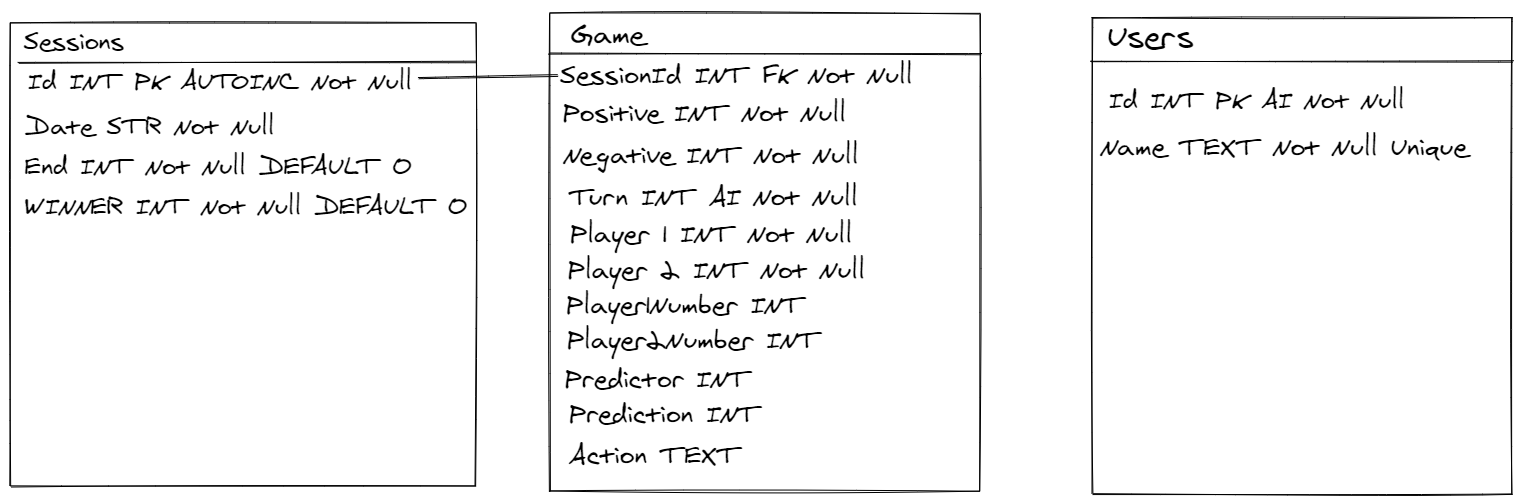
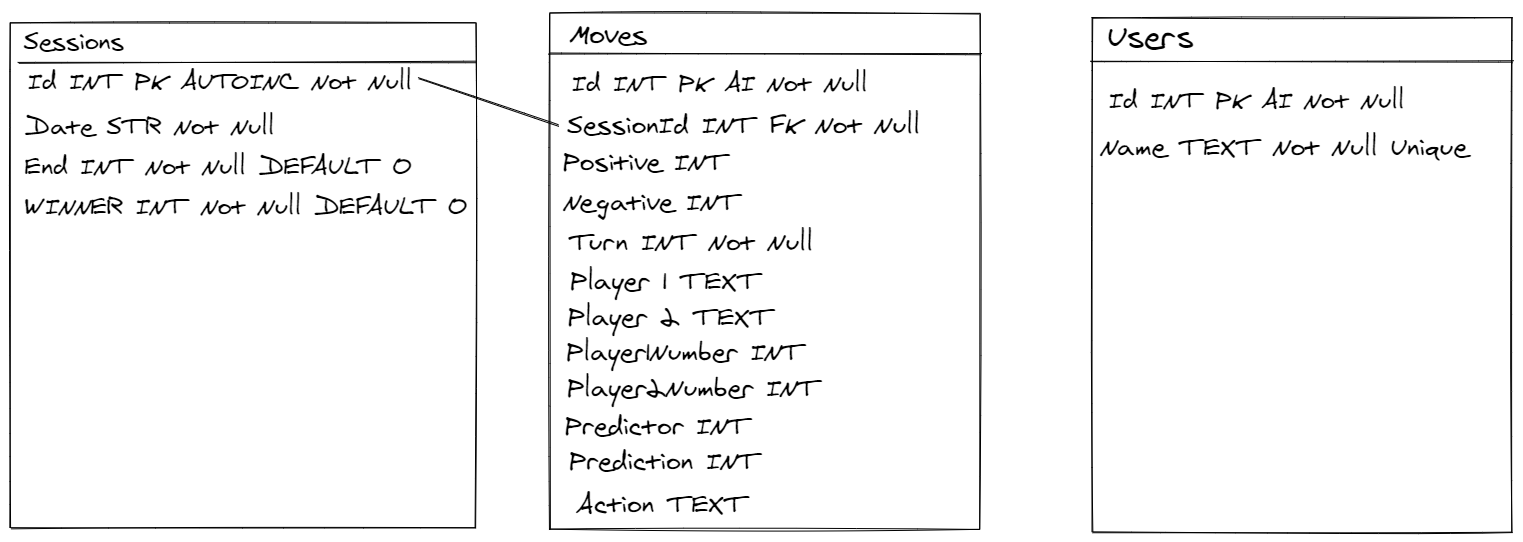
Scaffolded

diff --git a/app.go b/app.go
@@ -2,8 +2,12 @@ package main
 
 import (
 	"database/sql"
+	"log"
+	"net/http"
+	"os"
 
 	"github.com/gorilla/mux"
+	_ "github.com/mattn/go-sqlite3"
 )
 
 type App struct {
@@ -11,10 +15,76 @@ type App struct {
 	DB     *sql.DB
 }
 
-func (a *App) Init() {
+func (a *App) Init(database string, username string, password string) error {
+	log.Println("Creating Router...")
+	a.Router = mux.NewRouter()
+	log.Println("Initializing Routes...")
+	a.initRoutes()
+	if _, err := os.Stat(database); os.IsNotExist(err) {
+		log.Println("Database can not be found.Creating new...")
+		file, err := os.Create(database) // Create SQLite file
+		if err != nil {
+			log.Fatal(err)
+		}
+		file.Close()
+		db, err := sql.Open("sqlite3", database)
+		if err != nil {
+			log.Fatal(err)
+		}
+		defer db.Close()
 
+		log.Println("Created database file: " + database)
+
+		query := "CREATE TABLE Users (Id INTEGER PRIMARY KEY AUTOINCREMENT NOT NULL, Name TEXT NOT NULL UNIQUE);"
+		statement, err := db.Prepare(query)
+		if err != nil {
+			log.Fatal(err)
+		}
+		statement.Exec()
+		log.Println("Created Users table")
+
+		query = "CREATE TABLE Sessions (Id INTEGER PRIMARY KEY AUTOINCREMENT NOT NULL, Date TEXT NOT NULL,End INTEGER NOT NULL DEFAULT 0,Winner INTEGER NOY NULL DEFAULT 0);"
+		statement, err = db.Prepare(query)
+		if err != nil {
+			log.Fatal(err)
+		}
+		statement.Exec()
+		log.Println("Created Sessions table")
+
+		query = "CREATE TABLE Moves (Id INTEGER PRIMARY KEY AUTOINCREMENT NOT NULL,SessionId INTEGER NOT NULL,Positive INTEGER,Negative INTEGER,Turn INTEGER NOT NULL,Player1 TEXT,Player2 TEXT,Player1Number INTEGER,Player2Number INTEGER,Predictor INTEGER,Prediction INTEGER,Action TEXT,FOREIGN KEY (SessionId) REFERENCES Sessions (Id) ON DELETE CASCADE);"
+		statement, err = db.Prepare(query)
+		if err != nil {
+			log.Fatal(err)
+		}
+		statement.Exec()
+		log.Println("Created Moves table")
+
+		enableFK := "PRAGMA foreign_keys=ON;"
+		statement, err = db.Prepare(enableFK)
+		if err != nil {
+			log.Fatal(err)
+		}
+		statement.Exec()
+		log.Println("Foreign Key enabled for sqlite.")
+		log.Println("Created tables")
+		return db.Ping()
+	} else {
+		log.Println("Database file found.")
+		var err error
+		db, err := sql.Open("sqlite3", database)
+		if err != nil {
+			log.Fatal(err)
+		}
+		defer db.Close()
+		return db.Ping()
+	}
 }
 
-func (a *App) Run() {
+func (a *App) Run(addr string) {
+	log.Println("Serving on: ", addr)
+	log.Fatal(http.ListenAndServe(addr, a.Router))
+}
 
+func (a *App) initRoutes() {
+	a.Router.HandleFunc("/backend/ReadUser", a.ReadUser).Methods("POST")
 }

diff --git a/tests/users_test.go b/tests/users_test.go
@@ -8,9 +8,8 @@ import (
 
 	//import database package
 	database "github.com/anilkusc/BullsAndCows/database"
-	"github.com/anilkusc/BullsAndCows/models"
-
 	//import models package
+	"github.com/anilkusc/BullsAndCows/models"
 
 	//import mocking 3. party library
 	_ "github.com/proullon/ramsql/driver"
@@ -50,7 +49,8 @@ func CreateDatabase(t *testing.T, functionName string) *sql.DB {
 func TestReadUser(t *testing.T) {
 	// Specify test variables and expected results.
 	tests := []struct {
-		id     int
+		id int
+		// we need to use models.User for passing to object.This is different with "database.User".
 		result models.User
 		err    error
 	}{

diff --git a/models/models.go b/models/models.go
@@ -17,7 +17,7 @@ type Clue struct {
 	Positive string `json:"positive"`
 	Negative string `json:"negative"`
 }
-type Game struct {
+type Move struct {
 	Session       `json:"session"`
 	Clue          `json:"clue"` // Clues like +1/-1
 	Turn          int           `json:"turn"`           // Turn Count

diff --git a/handlers.go b/handlers.go
@@ -1,0 +1,12 @@
+package main
+
+import (
+	"io"
+	"net/http"
+)
+
+func (a *App) ReadUser(w http.ResponseWriter, r *http.Request) {
+	returnValue := "hello"
+	io.WriteString(w, string(returnValue))
+	return
+}

diff --git a/database/users.go b/database/users.go
@@ -5,6 +5,7 @@ import (
 	"strconv"
 
 	models "github.com/anilkusc/BullsAndCows/models"
+	_ "github.com/mattn/go-sqlite3"
 )
 
 type User struct {

diff --git a/main.go b/main.go
@@ -3,7 +3,7 @@ package main
 func main() {
 
 	a := App{}
-	a.Init()
-	a.Run()
+	a.Init("test.db", "admin", "admin")
+	a.Run(":8080")
 
 }
